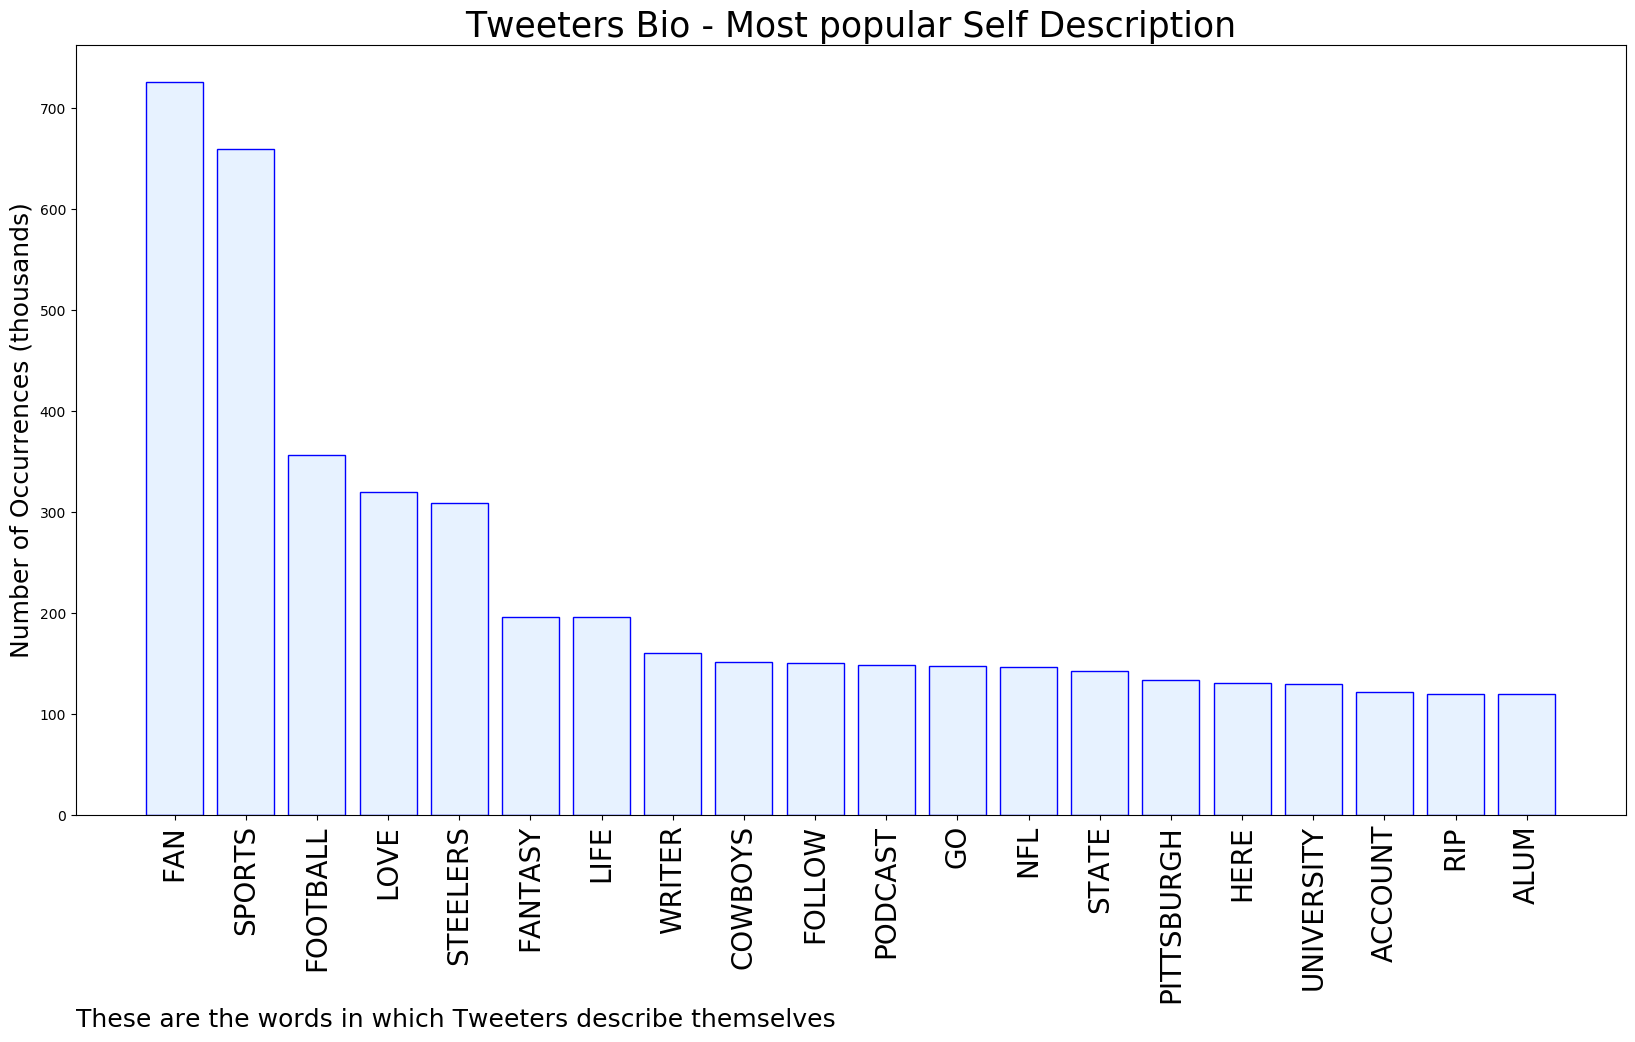
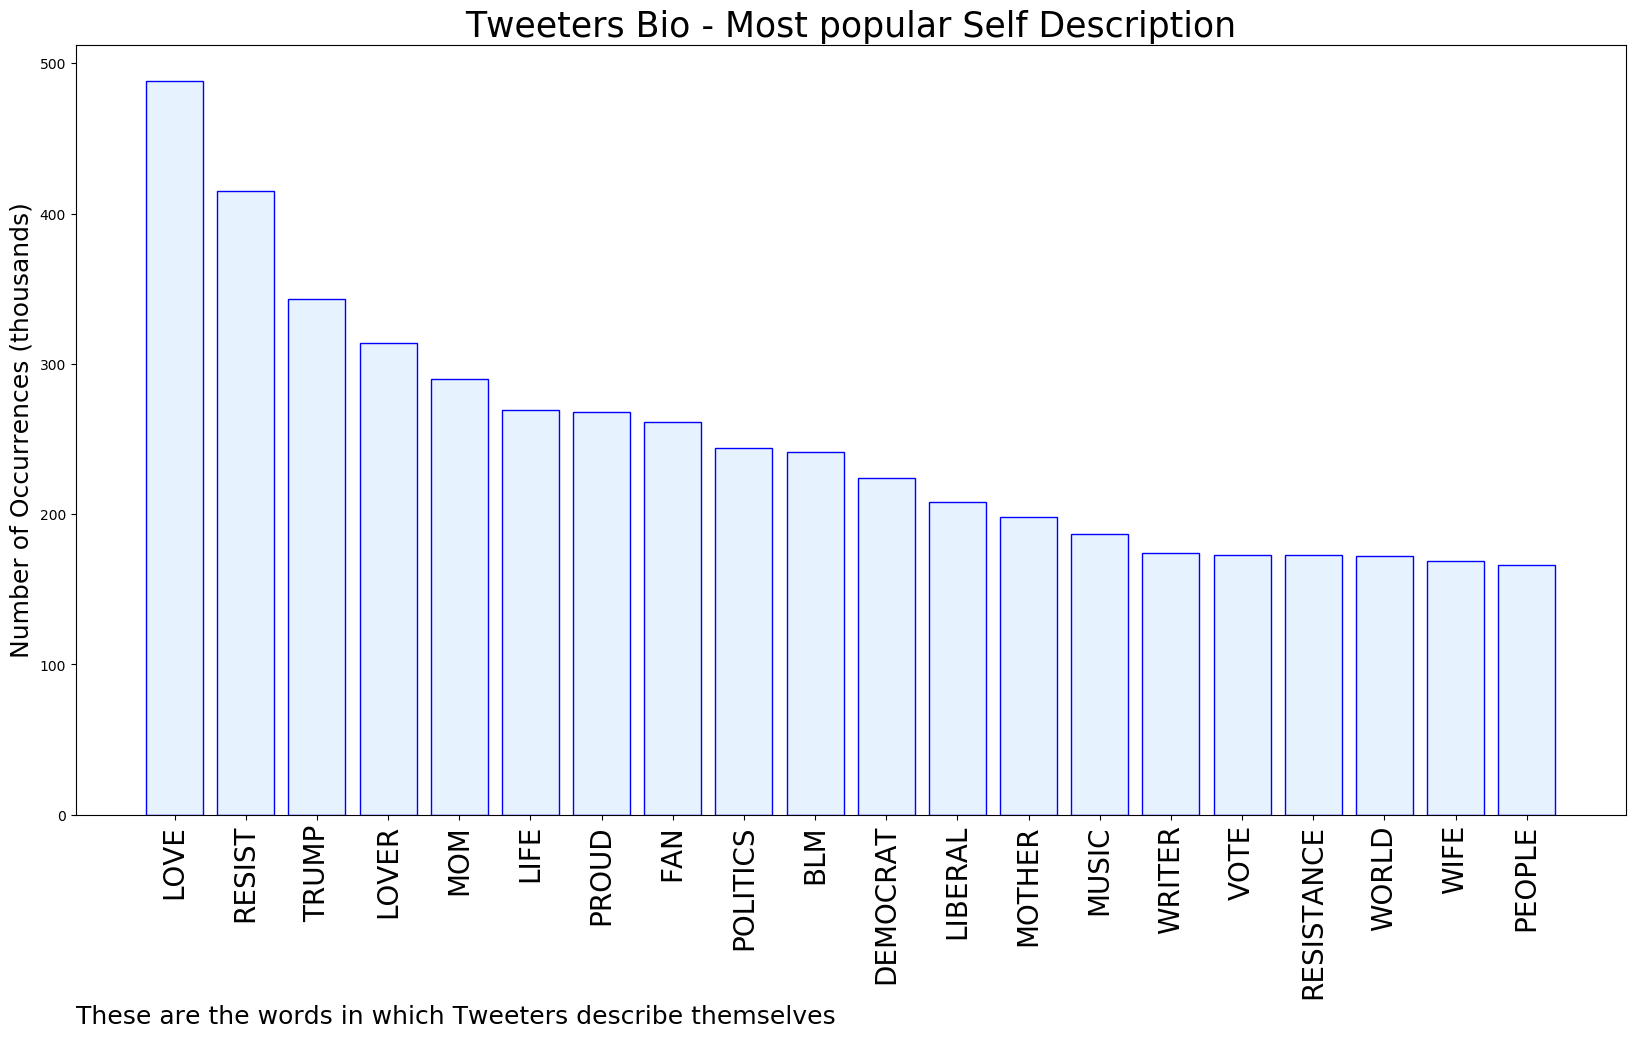
Updating with latest report

diff --git a/README.md b/README.md
@@ -1,5 +1,5 @@
 # MURCHIE85 TWITTER PROCESSING 
-&#x1F34E; **TOPIC = "Big Ben"**
+&#x1F34E; **TOPIC = "Loeffler"**
 
 ## AUTOMATED RESEARCH SUMMARY
 
@@ -15,22 +15,22 @@
 
 |                **Sample-Tweets**        |
 | :-------------: |
-| big ben plays better when he’s hurt |
-| WHAT A HIT! BIG BEN IS A BEAST 😳 |
-| RT @footballdaily: Graeme 🗣 "You were saying to us off-air you taught him that to be making that run all the time"Cole 🗣 "I would love to… |
+| RT @CullyHamner: So, he accepts the results of the downticket races, but not the results of the Presidential election. They're the same bal… |
+| RT @NBCNews: Control of the US Senate is likely to come down to the Jan. 5 Georgia runoff, when voters could be asked to decide whether bot… |
+| RT @SaraCarterDC: Loeffler, Perdue call for GA's head of elections to resignhttps://t.co/uwkJkZ8o9I |
 
-The most popular user is: **Big_BEN_Geo**
-<div class="alert alert-block alert-danger"> RT @realDonaldTrump: 71,000,000 Legal Votes. The most EVER for a sitting President!</div>
+The most popular user is: **PHEPHIPHOPHUM**
+<div class="alert alert-block alert-danger"> RT @ReverendWarnock: We're officially headed to a January runoff election against Kelly Loeffler and we need your help to win. Chip in righ…</div>
 
 ## RELATED METRICS<br>
 | Metric | Value |
 | ------------- | ------------- |
-| #1 Most tweeted to  | **barstoolsports** |
-| #2 Most tweeted to  | **nowthisnews** |
-| #3 Most tweeted to  | **steelers** |
-| NewProfiles (less than 10 days) | 0.81%  |
-| Tweeters with < 10 followers  | 4.5%|
-| Tweeters with > 1000000 followers  | 0.11%  |
+| #1 Most tweeted to  | **mkraju** |
+| #2 Most tweeted to  | **StevenTDennis** |
+| #3 Most tweeted to  | **HKrassenstein** |
+| NewProfiles (less than 10 days) | 0.42%  |
+| Tweeters with < 10 followers  | 2.29%|
+| Tweeters with > 1000000 followers  | 0.12%  |
 
 
 
@@ -39,11 +39,11 @@ The most popular user is: **Big_BEN_Geo**
 
 | Popularity Rank  | Term |
 | ------------- | ------------- |
-| first  | **BIG**  |
-| second  | **BEN**  |
-| third  | **BEN’S** |
-| fourth  | **THAT’S**  |
-| fifth  | **MUSIC**  |
+| first  | **LOEFFLER**  |
+| second  | **PERDUE**  |
+| third  | **GEORGIA** |
+| fourth  | **SECRETARY**  |
+| fifth  | **STATE**  |
 
 
 ## Twitter Bio Analysis![image](BIO.png)
@@ -54,13 +54,13 @@ VIEWS WERE : **SUBJECTIVE**  (20.0%) & **NEGATIVELY-SUBJECTIVE** (33.33%) **OBJE
 ### TWEET SAMPLE 
 | Random value picked from array |
 | ------------- |
-|RT @FantasySupreme_: 🚨#Contest ⏰🚨🏈 #NFL   is on sale. Message for details! 🇺🇸 Take a break from the #ElectionResults2020 &amp; enter this… |
+|RT @AmerIndependent: Georgia senators demand top election official resign because Trump lost by @CahnEmily https://t.co/7617FbAQqR |
 
 ### MOST RETWEETED 
 
-| The most retweeted user is: **Big_BEN_Geo**  |
+| The most retweeted user is: **PHEPHIPHOPHUM**  |
 | ------------- |
-| RT @realDonaldTrump: 71,000,000 Legal Votes. The most EVER for a sitting President! |
+| RT @ReverendWarnock: We're officially headed to a January runoff election against Kelly Loeffler and we need your help to win. Chip in righ… |
 
 ### CONCLUSION & EXTERNAL ANALYSIS
 
